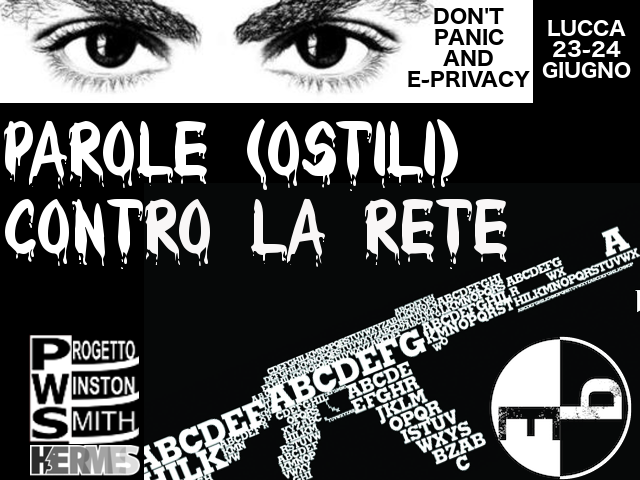
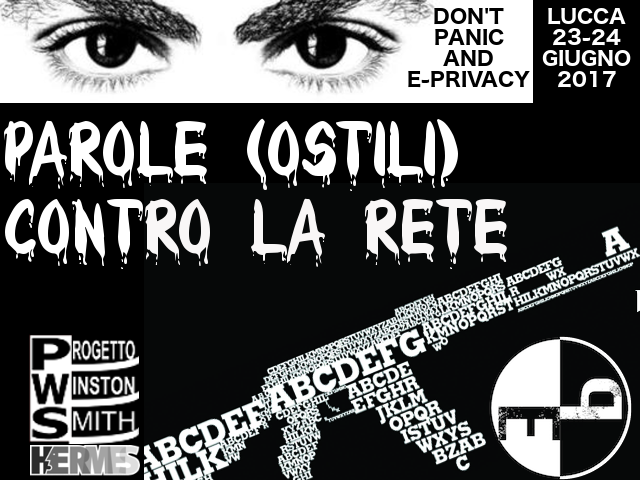
step

Changed region(s): [[0.8438, 0.0, 1.0, 0.1875]]

diff --git a/content/collabora.md b/content/collabora.md
@@ -7,15 +7,15 @@ slug: collabora
 Slogan: <i>"I popoli non dovrebbero temere i propri governi: sono i governi che dovrebbero temere i propri popoli."</i><br/><b>V (da John Basil Barnhill)</b>
 
 
-L'intera organizzazione di e-privacy, anche nel 2015, è stata realizzata esclusivamente da volontari. Molte persone hanno regalato un po' del loro tempo per permettere la realizzazione di tutte le attività progettate.
+L'intera organizzazione di e-privacy è realizzata esclusivamente da volontari. Molte persone regalano un po' del loro tempo per permettere la realizzazione di tutte le attività progettate.
 
 Puoi collaborare anche tu entrando in un gruppo dinamico e molto focalizzato sulla realizzazione di progetti pratici e utili.
 
 Non abbiamo bisogno di speciali competenze o particolari attitudini, ma molto spesso la disponibilità ad imparare e condividere con gli altri.
 
-## Per e-privacy 2016 (Logistica evento)
+## Per e-privacy 2017 (Logistica evento)
 
-Per **e-privacy 2016** abbiamo bisogno di volontari per lo staff di accoglienza degli ospiti al congresso.
+Per **e-privacy 2017** abbiamo bisogno di volontari per lo staff di accoglienza degli ospiti al congresso.
 
 Per partecipare allo staff è sufficiente indicare la propria disponibilità all'indirizzo di mail della [segreteria](mailto:segreteria@winstonsmith.org)  e NON DIMENTICARE ANCHE di iscriversi alla mailing-list della [logistica di e-privacy](http://lists.globaleaks.ninja/listinfo.cgi/logistica-eprivacy-globaleaks.ninja).
 
